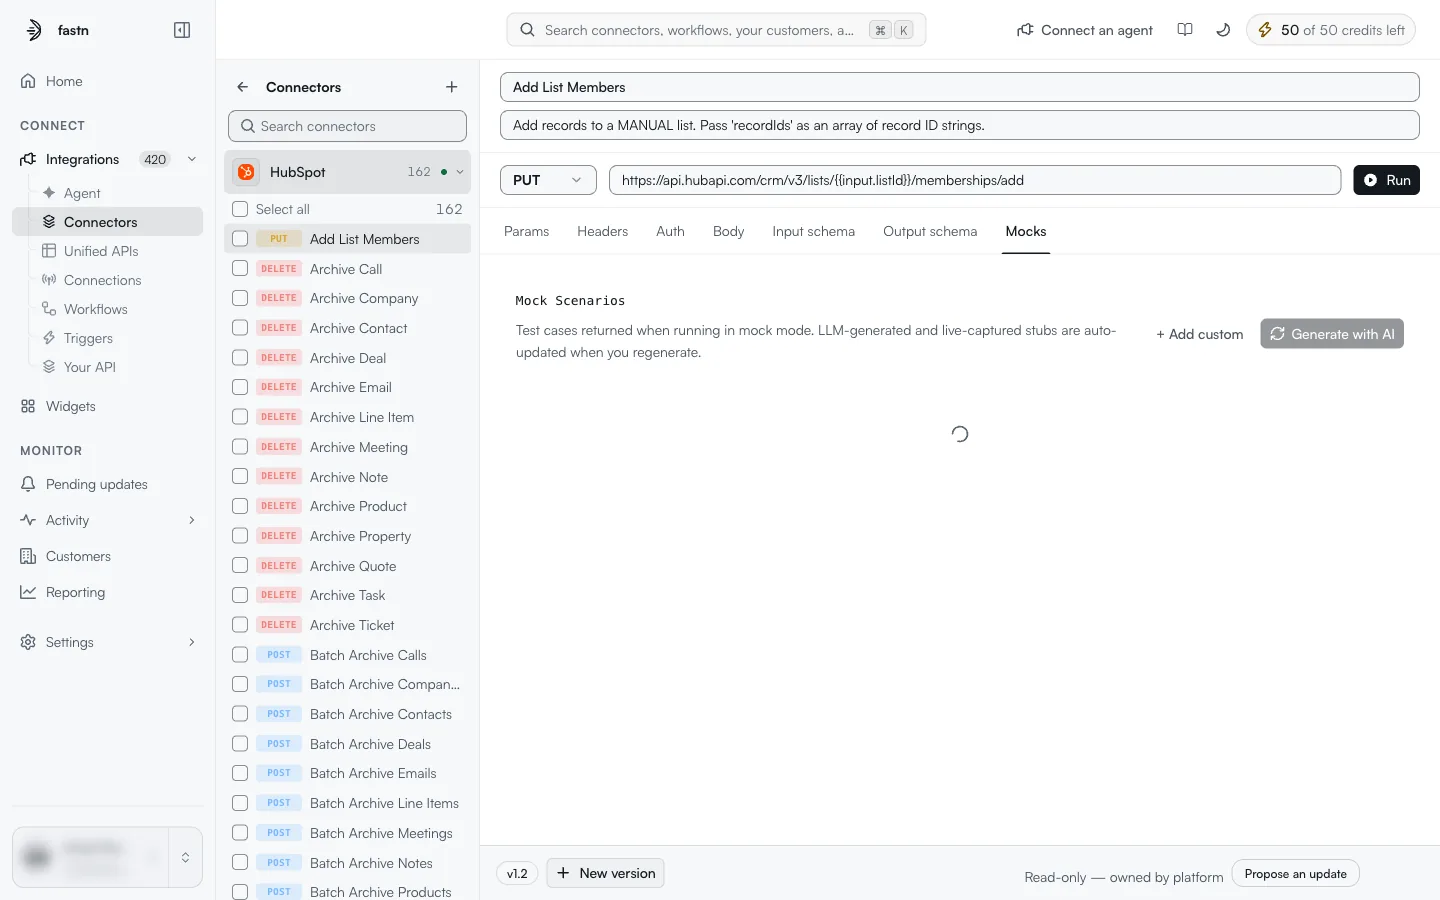
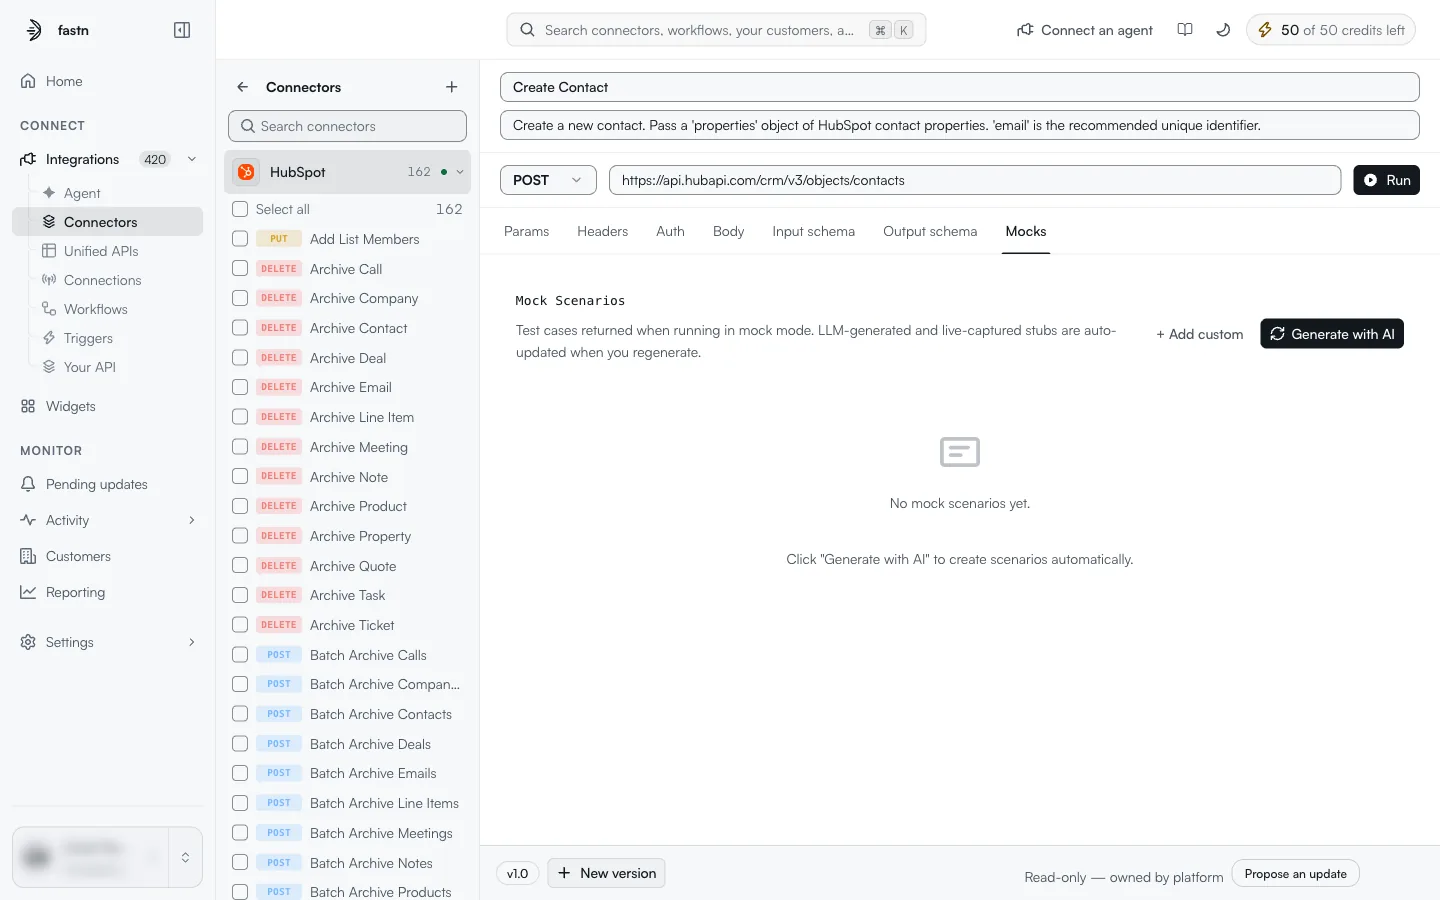
docs(connectors, connections): address independent review findings
- Recapture the Mocks, New version and Propose an update screenshots
  on an action without internal test scenarios; crop the row menu.
- Soften unverified claims (credential verification gate, status
  causes, auth-type expiry, mock null body, soft-delete restore).
- Say what Execute does, how App vs Event Webhook subscriptions work,
  what a connector bundle contains, and add the rail Connect entry.
- Merge the duplicate Versions paragraph, drop a hardcoded page size,
  fix alt text, link Activity, use "organisation" in prose.

diff --git a/build/connectors/action-detail.md b/build/connectors/action-detail.md
@@ -46,7 +46,7 @@ Anywhere in the URL, headers, query parameters or body, values in double braces 
 | --- | --- |
 | **Params** | Query parameters (**Query Parameters**, **+ Add**). Each one is a key and a value; the value can be a placeholder. |
 | **Headers** | Request headers (**Request Headers**, **+ Add**), as **KEY** / **VALUE** pairs. |
-| **Auth** | How this request is authorised. **Auth type**: `No Auth`, `Basic Auth`, `Bearer Token`, `JWT Bearer`, `AWS Signature`, `OAuth 1.0`, `OAuth 2.0` or `API Key`. `No auth` (*This request does not use any authorization.*) is the usual choice when the credential is already sent in a header, as in the HubSpot example below. |
+| **Auth** | How this request is authorised. **Auth type**: `No Auth`, `Basic Auth`, `Bearer Token`, `JWT Bearer`, `AWS Signature`, `OAuth 1.0`, `OAuth 2.0` or `API Key`. **No Auth** (the panel then reads *No auth · This request does not use any authorization.*) is the usual choice when the credential is already sent in a header, as in the HubSpot example below. |
 | **Body** | **Body type**: `JSON`, `Form Data`, `Raw`, `GraphQL` or `Form URL Encoded`, and the body itself. |
 | **Input schema** | The inputs the action accepts. See below. |
 | **Output schema** | The shape of the response the action returns. Same editor as the input schema. |
@@ -79,7 +79,7 @@ Switch between **Form** and **JSON**. In Form view each field is one row:
 
 **Add** (top right) adds a top-level field. The count (for example *1 field*) shows how many top-level fields there are.
 
-<figure><img src="../../.gitbook/assets/action-editor-field-options.webp" alt="The Input schema tab with the more-options menu of the phone field open, showing Enum values"><figcaption><strong>More options</strong> on a field.</figcaption></figure>
+<figure><img src="../../.gitbook/assets/action-editor-field-options.webp" alt="The Input schema tab with a field's more-options menu open, showing Enum values"><figcaption><strong>More options</strong> on a field.</figcaption></figure>
 
 The **Output schema** tab (*Define the expected output structure for this action.*) uses the same editor. Workflows and the Agent read it to know which fields a response contains.
 
@@ -89,13 +89,14 @@ The **Output schema** tab (*Define the expected output structure for this action
 
 > Test cases returned when running in mock mode. LLM-generated and live-captured stubs are auto-updated when you regenerate.
 
-<figure><img src="../../.gitbook/assets/action-editor-mocks.webp" alt="The Mocks tab, headed Mock Scenarios, with + Add custom and Generate with AI buttons and two CUSTOM scenarios: rate-limited-chunk, described as a chunk returning 429 while others succeed, and added-ok, Default success: HubSpot accepted the batch"><figcaption>Two custom mock scenarios on Add List Members.</figcaption></figure>
+<figure><img src="../../.gitbook/assets/action-editor-mocks.webp" alt="The Mocks tab of HubSpot Create Contact, headed Mock Scenarios, with + Add custom and Generate with AI buttons and the empty state No mock scenarios yet. Click Generate with AI to create scenarios automatically"><figcaption>The Mocks tab before any scenario exists.</figcaption></figure>
 
 A mock is a stored response for this action. When a workflow runs in mock mode, the action returns the mock instead of calling the vendor, so you can test a workflow without touching real data.
 
 * **+ Add custom** adds a scenario you write yourself.
 * **Generate with AI** has the AI write scenarios for the action. Generated scenarios are replaced when you generate again.
 * Each scenario shows its source (`CUSTOM` for hand-written ones), its name and a description. The bin icon deletes it.
+* With none saved, the tab reads *No mock scenarios yet.*
 
 ### Running an action
 
@@ -119,13 +120,13 @@ The result appears beside the inputs: the HTTP status, the time taken (`0ms (moc
 
 After a successful live run the action is marked **Live tested** (a green check also appears next to it in the rail), and **Last test** in the panel reopens the most recent result.
 
-<figure><img src="../../.gitbook/assets/action-run-mock-result.webp" alt="The run panel after Run Mock: on the right HTTP 200, 0ms (mock), Response and Request tabs, and the response body null"><figcaption>A mock run. The body is <code>null</code> here because this action has no output schema yet.</figcaption></figure>
+<figure><img src="../../.gitbook/assets/action-run-mock-result.webp" alt="The run panel after Run Mock: on the right HTTP 200, 0ms (mock), Response and Request tabs, and the response body null"><figcaption>A mock run for an action with no saved scenarios and no output schema.</figcaption></figure>
 
 ### Versions
 
-On an action your workspace owns, the footer shows the version, **New version** and **Save Changes**. Hovering the version explains it: *Internal revision — major.minor. A minor bump reaches pinned callers automatically; a major fork does not.*
+The footer shows the action's version, for example `v1.2`, and **New version**. On an action your workspace owns it also shows **Save Changes**. Hovering the version explains it: *Internal revision — major.minor. A minor bump reaches pinned callers automatically; a major fork does not.*
 
-The footer shows the action's version, for example `v1.2`. **New version** opens a small form:
+**New version** opens a small form:
 
 <figure><img src="../../.gitbook/assets/action-new-version.webp" alt="The New version form above the editor footer: a Fork selector set to Next internal major (breaking), checkboxes Deprecate this version and Make default, and Create and Cancel buttons"><figcaption>Creating a new version of an action.</figcaption></figure>
 

diff --git a/build/connectors/editing-and-deleting.md b/build/connectors/editing-and-deleting.md
@@ -4,7 +4,7 @@ description: "What you can change on a connector your workspace owns: editing it
 
 # Editing, publishing and deleting
 
-Everything on this page applies to connectors your workspace **owns**: ones you created with **Create connector** or brought in with **Import**. Their card is badged `Custom` and reads *Managed by &lt;your organization&gt;*. Managed connectors (badged `managed`, *Managed by Fastn*) are read-only in your workspace; to change one of their actions, use [Propose an update](action-detail.md#platform-owned-actions-and-propose-an-update).
+Everything on this page applies to connectors your workspace **owns**: ones you created with **Create connector** or brought in with **Import**. Their card is badged `Custom` and reads *Managed by* followed by your organisation's name. Managed connectors (badged `managed`, *Managed by Fastn*) are read-only in your workspace; to change one of their actions, use [Propose an update](action-detail.md#platform-owned-actions-and-propose-an-update).
 
 ### Where the controls are
 
@@ -38,7 +38,7 @@ On an owned connector:
 
 **+** next to the connector's name in the rail opens a blank action in the editor:
 
-<figure><img src="../../.gitbook/assets/action-new-action.webp" alt="A new, empty action in the editor: name New Action, Description (optional), method GET, a Request URL field with placeholder https://api.example.com/path or paste curl, the tabs Params, Headers, Auth, Body, Input schema and Output schema, and a footer with + Add note for reviewer, Discard and a disabled Create Action button"><figcaption>A new action. <strong>Create Action</strong> is enabled once the request has a URL.</figcaption></figure>
+<figure><img src="../../.gitbook/assets/action-new-action.webp" alt="A new, empty action in the editor: name New Action, Description (optional), method GET, a Request URL field with placeholder https://api.example.com/path or paste curl, the tabs Params, Headers, Auth, Body, Input schema and Output schema, and a footer with + Add note for reviewer, Discard and a disabled Create Action button"><figcaption>A new action. <strong>Create Action</strong> stays disabled until the request is filled in.</figcaption></figure>
 
 1. Replace **New Action** with the action's name, and add a description.
 2. Choose the method and enter the URL. You can also paste a complete `curl` command into the URL field.
@@ -59,7 +59,7 @@ Every saved change goes to the connector's **Test** version. Customers keep runn
 
 <figure><img src="../../.gitbook/assets/connector-publish-confirm.webp" alt="The Publish to live? dialog: v1.0 becomes the version your customers run. Connections and pins keep working; anyone not pinned moves to it immediately. With Cancel and Publish buttons"><figcaption>Publishing moves every customer who is not pinned to this version.</figcaption></figure>
 
-Customers pinned to another version (see [Version pins](inside-a-connector.md#version-pins)) stay on it. The Edit dialog states that [credential verification](#edit-a-connector) is *required before this connector can go live*, so set a verification action before you publish.
+Customers pinned to another version (see [Version pins](inside-a-connector.md#version-pins)) stay on it. The Edit dialog also says [credential verification](#edit-a-connector) is *required before this connector can go live*. Publishing a test version without it is not blocked, so add a verification action before customers rely on the connector.
 
 ### Restore a version
 
@@ -77,7 +77,7 @@ Each save adds a version with a note of what changed, for example *Updated descr
 
 <figure><img src="../../.gitbook/assets/connector-delete-dialog.webp" alt="The Delete Connector dialog: Are you sure you want to delete Docs Demo CRM? By default this is a soft delete, the connector is hidden but can be restored. Connected accounts are disconnected for good either way. Tick the box below to remove it permanently. A Permanently delete (cannot be undone) checkbox, and Cancel and Delete buttons"><figcaption>Soft delete is the default; tick the box to delete permanently.</figcaption></figure>
 
-* **Soft delete** (the default): the connector disappears from the catalogue and can be restored. Every connection on it is disconnected and its credentials are deleted; restoring brings back the connector, not the credentials.
+* **Soft delete** (the default): the connector disappears from the catalogue. The dialog says it *can be restored*. Every connection on it is disconnected and its credentials are deleted; restoring brings back the connector, not the credentials.
 * **Permanently delete (cannot be undone)**: tick this box to remove the connector for good.
 
 After **Delete**, you return to the catalogue.

diff --git a/build/connectors/webhook-config.md b/build/connectors/webhook-config.md
@@ -11,14 +11,14 @@ A **webhook config** tells fastn how to subscribe to an app's events on behalf o
 ### How it works
 
 1. A customer connects to the connector.
-2. fastn runs the config's **Subscribe** code with that customer's connection. The code registers a webhook with the app that points at fastn.
+2. fastn runs the config's **Subscribe** code with that customer's connection. The code registers the subscription with the app. With the **App** type, every customer's events arrive at one shared fastn URL; with **Event Webhook**, a separate webhook is registered for each event.
 3. The app sends events to fastn. fastn checks the request (see [Webhook verification](#webhook-verification)), works out which customer and which event it is, and fires the matching app event triggers.
 4. When the customer disconnects, fastn runs the **Unsubscribe** code to remove the webhook.
 5. For apps whose subscriptions expire, fastn runs the **Renew** code before they do.
 
 ### The config table
 
-<figure><img src="../../.gitbook/assets/connector-tab-webhook-config.webp" alt="The HubSpot Webhook config tab with a New config button and a table with columns Type, Events, Registered, Subscription, Unsubscription, Created and Actions; one row: App, 28 events, 15/28, Defined, Defined, Jun 2, 2026"><figcaption>HubSpot has one config of type App covering 28 events.</figcaption></figure>
+<figure><img src="../../.gitbook/assets/connector-tab-webhook-config.webp" alt="The HubSpot Webhook config tab with a New config button and a table with columns Type, Events, Registered, Subscription, Unsubscription, Created and Actions; one row: App, 28 events, 15/28, Defined, Defined, Jun 2, 2026"><figcaption>HubSpot has one config of type App.</figcaption></figure>
 
 | Column | Meaning |
 | --- | --- |
@@ -32,7 +32,7 @@ A **webhook config** tells fastn how to subscribe to an app's events on behalf o
 <figure><img src="../../.gitbook/assets/webhook-config-row-actions.webp" alt="The Webhook config tab of a custom connector with one config row: App, 1 event, 0/1, Defined, Defined, Oct 8, 2026, and the actions Edit, Execute and Delete"><figcaption>On a connector you own, each config row has <strong>Edit</strong>, <strong>Execute</strong> and <strong>Delete</strong>.</figcaption></figure>
 
 * **Edit** opens **Edit webhook config** below the table, the same form as **New config** with **Update** instead of **Create**.
-* **Execute** runs the config's subscription code.
+* **Execute** runs the **Subscribe** snippet once with empty input and reports *Subscription executed successfully* when it works. It is disabled if the config has no Subscribe code.
 * **Delete** asks *Delete this webhook config?* in a browser confirmation, then removes it. The tab returns to *No webhook config yet* if it was the only one.
 
 <figure><img src="../../.gitbook/assets/webhook-config-edit.webp" alt="The Edit webhook config form open below the config table, with Available as a trigger source on, Type One webhook for the whole app, Auth provider None configured yet, Event key type, and the Subscribe snippet"><figcaption>Editing an existing config.</figcaption></figure>

diff --git a/build/connections/auth-types.md b/build/connections/auth-types.md
@@ -6,15 +6,15 @@ description: "The values in the Auth column and on a connection's detail page, a
 
 The **Auth** column on the [Connections](README.md) page, and **Auth method** on a connection's detail page, show the type of auth method the connection was made with. They show the stored value, not a display name.
 
-| Value | Method in the connect dialog | What the user gave | Does it expire? |
+| Value | Method in the connect dialog | What the user gave | What keeps it working |
 | --- | --- | --- | --- |
 | `OAUTH_2` | OAuth 2.0 | Signed in to the app and approved access. | The access token expires, and fastn renews it with the refresh token. If renewal fails, the connection becomes `Expired`. |
-| `API_KEY` | API Key | An API key. | Not by itself. It breaks if the key is deleted or rotated in the app. |
-| `BEARER` | Bearer Token | A token, for example a personal access token. | Depends on the app. Some tokens have an expiry date. |
-| `BASIC` | Basic Auth | A username and password. | Breaks when the password changes. |
-| `DIGEST` | Digest Auth | A username and password. | Breaks when the password changes. |
-| `INPUT` | Custom | The fields the connector defines, for example an account ID plus a key. | Depends on what was entered. |
-| `NO_AUTH` | No Auth | Nothing. | No. |
+| `API_KEY` | API Key | An API key. | The key staying valid in the app. Deleting or rotating it there breaks the connection. |
+| `BEARER` | Bearer Token | A token, for example a personal access token. | The token staying valid in the app, including any expiry date the app sets. |
+| `BASIC` | Basic Auth | A username and password. | The password not changing. |
+| `DIGEST` | Digest Auth | A username and password. | The password not changing. |
+| `INPUT` | Custom | The fields the connector defines, for example an account ID plus a key. | The entered values staying valid in the app. |
+| `NO_AUTH` | No Auth | Nothing. | Nothing to keep up. |
 
 The detail page adds a plain-language note under the value, for example *Your customer signed in and approved access.* for `OAUTH_2`.
 

diff --git a/build/connections/statuses.md b/build/connections/statuses.md
@@ -9,12 +9,12 @@ Every connection has one status. It shows in the **Status** column on the [Conne
 | Status | Meaning | What to do |
 | --- | --- | --- |
 | **Active** | The connection works. | Nothing. |
-| **Inactive** | The connection exists but is switched off. | **Reconnect** it, or **Disconnect** it if it is no longer needed. |
-| **Expired** | *Authorised, but the credential has expired. Reconnecting usually clears it.* fastn could not renew the token in time. | **Reconnect**. For a customer's connection, the customer signs in again through your widget. |
-| **Failed** | The app rejected the credential: access was revoked, the password changed or the key was rotated. | Same as Expired: sign in again. |
+| **Inactive** | The connection exists but is not active. | **Reconnect** it, or **Disconnect** it if it is no longer needed. |
+| **Expired** | *Authorised, but the credential has expired. Reconnecting usually clears it.* | **Reconnect**. For a customer's connection, the customer signs in again through your widget. |
+| **Failed** | The credential is not accepted. | Same as Expired: sign in again. |
 
 Use the status chips at the top of the Connections page to list only connections in one state.
 
 {% hint style="info" %}
-Expired and Failed connections are the most common reason a sync stops working. Check them first, and set an [alert](../../operate/alerts.md) so you hear about a broken connection before your customer does.
+A workflow that runs through an Expired or Failed connection cannot reach the app. Check connection status when a sync stops, and set an [alert](../../operate/alerts.md) so you hear about a broken connection before your customer does.
 {% endhint %}

diff --git a/build/connections/inside-a-connection.md b/build/connections/inside-a-connection.md
@@ -32,11 +32,11 @@ The connector's name and icon, the connection's name (for example `Default`), it
 | **Created** | *When your customer authorised it.* |
 | **Updated** | *The last change to this connection record.* |
 
-Use this panel to tell whether a refresh is still succeeding. An **Expires** date in the past together with an old **Last refreshed** date means fastn could no longer renew the token, and the account has to sign in again.
+Use this panel to tell whether a refresh is still succeeding. An **Expires** date in the past together with an old **Last refreshed** date usually means the token could not be renewed, and the account has to sign in again.
 
 ### Recent activity
 
-The latest calls made through this connection. **View all** opens the full list in Activity. Until something has run, it reads *Nothing has come through this connection yet. Calls appear here as soon as your customer starts using it.*
+The latest calls made through this connection. **View all** opens the full list in [Activity](../../operate/README.md). Until something has run, it reads *Nothing has come through this connection yet. Calls appear here as soon as your customer starts using it.*
 
 ### Reconnect
 

diff --git a/build/connectors/inside-a-connector.md b/build/connectors/inside-a-connector.md
@@ -21,7 +21,7 @@ description: "The connector detail page: the connector rail, the header, and the
 | Element | Meaning |
 | --- | --- |
 | **Name** and icon | The connector. |
-| `<owner> · <auth type>` | Who maintains it (*Fastn* for managed connectors, your organization's name for connectors you own) and its default auth type, for example `Fastn · OAuth 2.0` or `Fastn · INPUT`. |
+| `<owner> · <auth type>` | Who maintains it (*Fastn* for managed connectors, your organisation's name for connectors you own) and its default auth type, for example `Fastn · OAuth 2.0` or `Fastn · INPUT`. |
 | Version chip, for example `v1.0 · Test` | The connector's current version and whether that version is in **Test** or **Live**. |
 | **Connect** or **Disconnect** | **Connect** opens the connect dialog. Once you are connected it changes to **Disconnect**, which removes your connection after a confirmation. |
 | **⋯** (More actions) | On a managed connector you are connected to: **Disconnect**. On a connector your workspace owns: **Edit** and **Delete**; see [Editing, publishing and deleting](editing-and-deleting.md). |

diff --git a/build/connectors/the-catalogue.md b/build/connectors/the-catalogue.md
@@ -39,7 +39,7 @@ If nothing matches, the page shows *No connectors match these filters* and *Try 
 The **Connected** and **OAuth** views can take several seconds to load the first time you open them, because the page checks each connector's connections and auth methods. The list shows *Loading...* until it is ready.
 {% endhint %}
 
-The list shows 24 connectors per page, with **Previous** and **Next** below it.
+The list is split into pages, with **Previous** and **Next** below it.
 
 ### Reading a card
 
@@ -49,7 +49,7 @@ Each card shows:
 * a **badge**: `managed` (maintained by fastn), `Custom` (created in your workspace), or `Connected` (at least one connection exists);
 * the **description**, cut to a few lines;
 * an **OAuth 2.0** chip if the connector offers OAuth;
-* who maintains it: *Managed by Fastn*, or *Managed by &lt;your organization&gt;* for a connector your workspace created;
+* who maintains it: *Managed by Fastn*, or *Managed by* your organisation's name for a connector your workspace created;
 * a button at the bottom.
 
 The button depends on whether you have connected:

diff --git a/build/connectors/importing-and-exporting.md b/build/connectors/importing-and-exporting.md
@@ -52,7 +52,7 @@ The file looks like this (shortened):
 | `stage` | `test` or `live`. |
 | `version` | The action's version. |
 
-An export holds definitions only. It never contains credentials or connections.
+An action export holds definitions only: no credentials and no connections.
 
 ### Export connectors
 
@@ -85,7 +85,7 @@ The download is named `connectors-bundle-<date>.json`, for example `connectors-b
 }
 ```
 
-Each entry carries the connector's definition, its actions, its webhook configs, its auth providers and its app registrations. Managed connectors do not have this menu; to copy one of their actions, use [Export actions](#export-actions).
+Each entry carries the connector's definition, its actions, its webhook configs, its auth providers and its app registrations. Connections are never included. If the connector has its own OAuth app, open the file and check the `authProviders` entries before sharing it. Managed connectors do not have this menu; to copy one of their actions, use [Export actions](#export-actions).
 
 ### Import
 

diff --git a/build/connectors/connect-a-system.md b/build/connectors/connect-a-system.md
@@ -6,12 +6,13 @@ description: "Making a connection step by step: open the connect dialog, choose 
 
 A connection is what lets a connector call an app as a specific account. Connecting here signs in **your own** account, for your organisation's workflows and for testing. Your customers connect their own accounts through the [widget](../../embed/README.md) you embed.
 
-There are four ways to open the connect dialog. All of them lead to the same dialog:
+These all open the same connect dialog:
 
 * **Connect** on a connector's card in the [catalogue](the-catalogue.md);
 * **Add another connection** on a card that is already connected;
 * **Connect** in the header, or on the **Connections** tab, of the [connector detail page](inside-a-connector.md);
 * **New connection** on the [Connections](../connections/README.md) page, then pick the app.
+* **⋯ → Connect** on the connector's row in the rail, for a connector your workspace owns.
 
 {% stepper %}
 {% step %}

diff --git a/build/connectors/README.md b/build/connectors/README.md
@@ -58,7 +58,7 @@ Workflows, the Agent and the MCP gateway call the connector's actions through th
 {% step %}
 #### Receive events (optional)
 
-If the connector has a webhook config, fastn registers a webhook for each connection so that an app event trigger can start a workflow when something happens in the app.
+If the connector has a webhook config, fastn runs its subscription code for each new connection, so that events from that account reach fastn and an app event trigger can start a workflow.
 {% endstep %}
 {% endstepper %}
 
